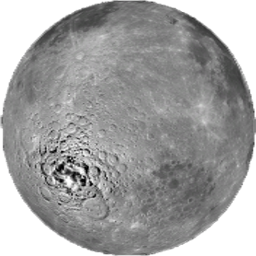
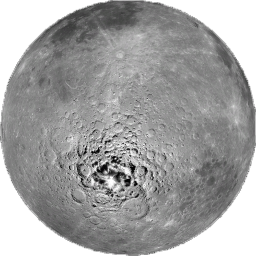
달이 돈다

diff --git a/public/javascripts/game.js b/public/javascripts/game.js
@@ -7,17 +7,19 @@ var resource = {
 
 //earth와 관련된 모든 리소스를 담고, 순서대로 출력
 for(var i =0; i < 7; i++){
-  resource.earth[i] = new Image();
-  resource.earth[i].src = "/images/planet/blue/"+(i+1)+".png";
+  	resource.earth[i] = new Image();
+  	resource.earth[i].src = "/images/planet/blue/"+(i+1)+".png";
 }
 
 for(var i = 0; i < 18; i++){
-  resource.mars[i] = new Image();
-  resource.mars[i].src = "/images/planet/red/"+(i+1)+".png";
+  	resource.mars[i] = new Image();
+  	resource.mars[i].src = "/images/planet/red/"+(i+1)+".png";
 }
 
-resource.moon[0] = new Image();
-resource.moon[0].src = "/images/planet/gray/1.png";
+for(var i = 0; i< 11; i++){
+	resource.moon[i] = new Image();
+	resource.moon[i].src = "/images/planet/gray/"+(i+1)+".png";
+}
 
 function Game(blue, red){
   var canvas = document.getElementsByTagName('canvas')[0];
@@ -259,7 +261,9 @@ Node.prototype.draw = function(ctx, dt){
       	ctx.drawImage(img, this.x - this.r, this.y-this.r, this.r*2, this.r*2);
       	break;
     case "moon":
-      ctx.drawImage(resource.moon[0], this.x - this.r, this.y-this.r, this.r*2, this.r*2);
+    	var index = parseInt(this.animateTime/(this.rotationPeriod/resource.moon.length)) || 0;
+    	var img = resource.moon[index];
+      	ctx.drawImage(img, this.x - this.r, this.y-this.r, this.r*2, this.r*2);
     break;
   }
   this.animateTime += dt;
